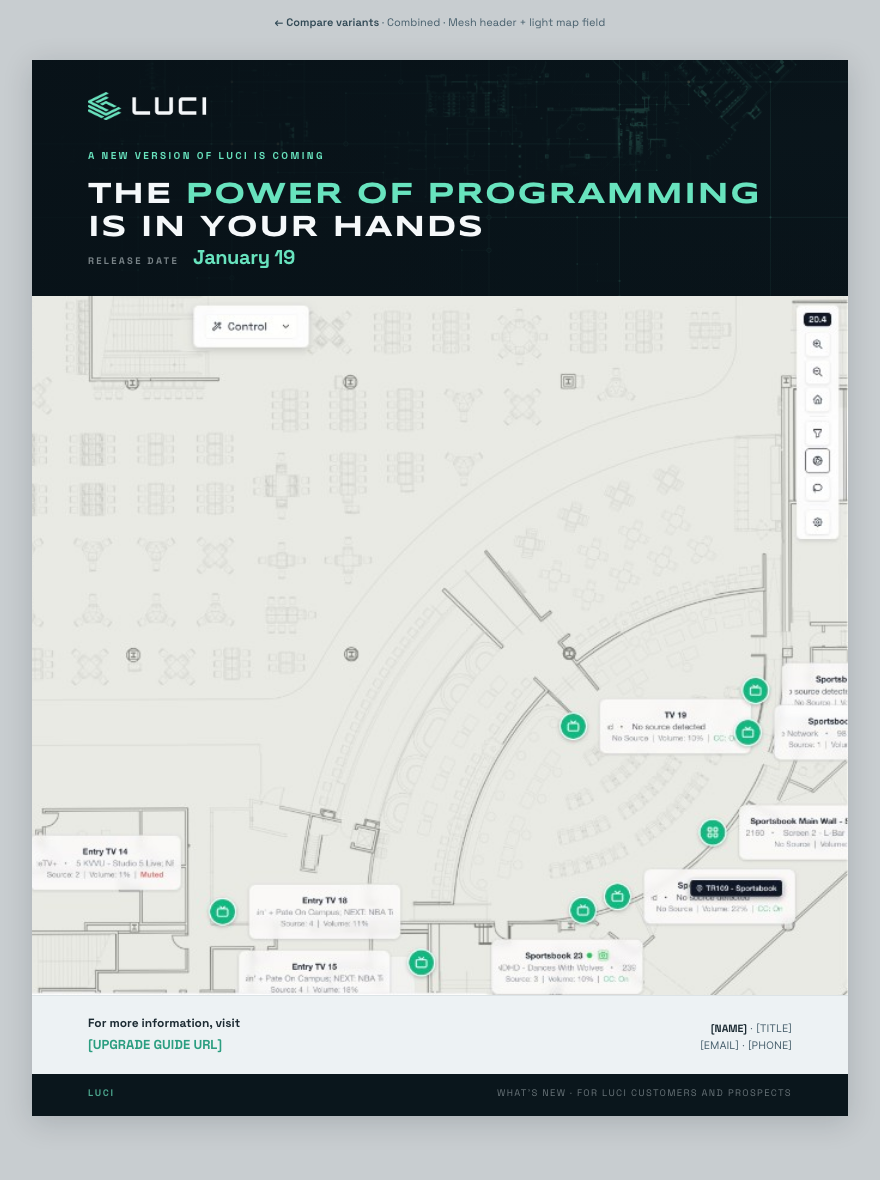
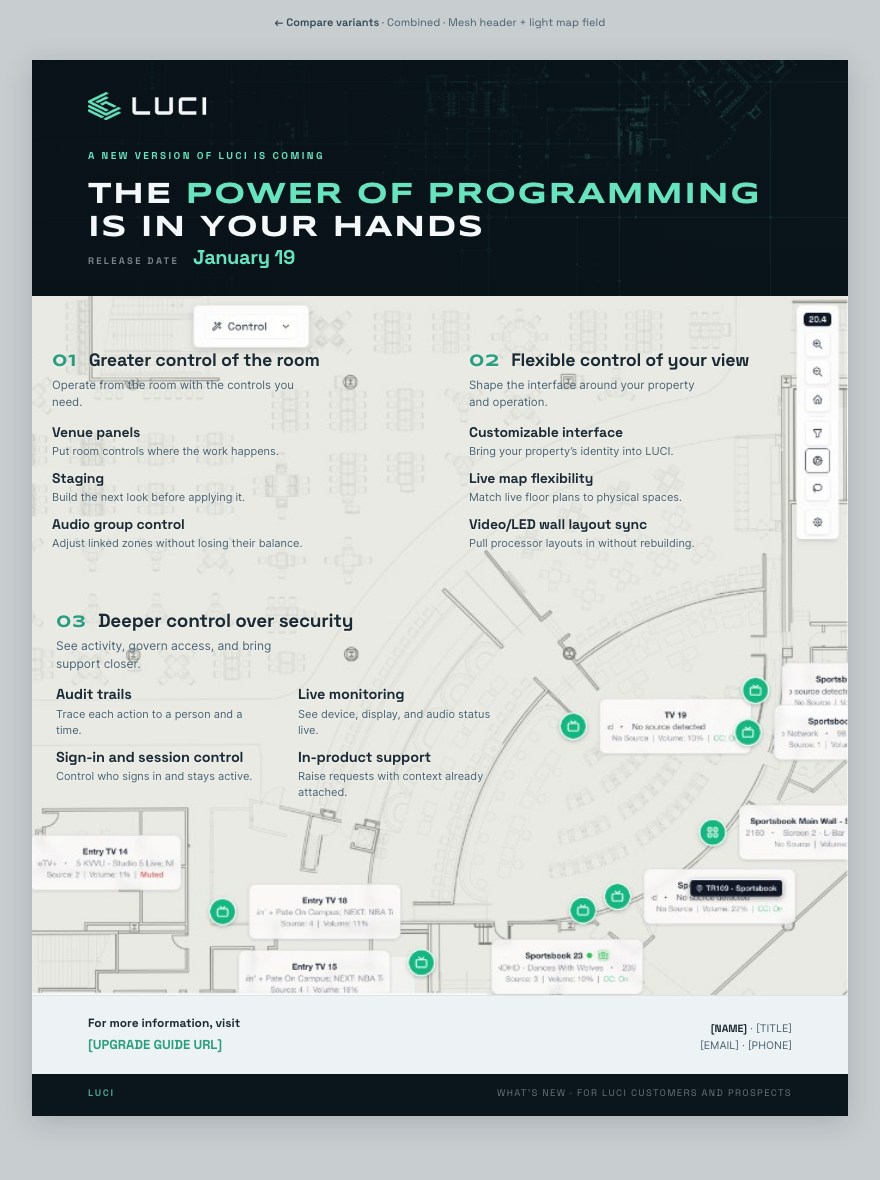
What's New one-pager: layer just the text on the map, no boxes
Re-add the section label + three promise cards as pure text
on the map — no card fill, no hairline, no scrim. Dark ink
type (brochure colors: ink-strong names, mint-dark numerals,
navy-muted body) with a subtle light text-shadow so glyphs
lift off the map detail. Placement kept (01/02 top row,
03 wider below).

diff --git a/LUCI Systems Design System/ui_kits/sales/new-luci-whats-new-onepager-flow-c.html b/LUCI Systems Design System/ui_kits/sales/new-luci-whats-new-onepager-flow-c.html
@@ -79,8 +79,8 @@ body{font-family:var(--font-body);background:#c8cdd0;color:var(--ink);font-size:
 .copy{position:relative;z-index:2;height:100%;display:flex;flex-direction:column;
   padding:18px 32px 34px}
 .copy__title{font-family:var(--font);font-weight:700;font-size:13px;
-  letter-spacing:0.16em;text-transform:uppercase;color:var(--navy-muted);
-  margin-bottom:16px}
+  letter-spacing:0.16em;text-transform:uppercase;color:var(--ink-strong);
+  margin-bottom:16px;text-shadow:0 1px 2px rgba(245,248,250,0.75)}
 
 .promises{display:grid;grid-template-columns:1fr 1fr;gap:18px;align-items:start}
 
@@ -150,6 +150,58 @@ body{font-family:var(--font-body);background:#c8cdd0;color:var(--ink);font-size:
 
     <div class="field">
       <img class="field__shot" src="assets/new-luci-map-light-v5.png?v=1" alt="" aria-hidden="true">
+
+      <div class="copy">
+        <h2 class="copy__title">The 3 Promises of New LUCI</h2>
+
+        <div class="promises">
+          <section class="p">
+            <div class="p__inner">
+              <div class="p__head">
+                <span class="p__num">01</span>
+                <h3 class="p__name">Greater control of the room</h3>
+              </div>
+              <p class="p__lead">Operate from the room with the controls you need.</p>
+              <dl class="features">
+                <div class="ft"><dt>Venue panels</dt><dd>Put room controls where the work happens.</dd></div>
+                <div class="ft"><dt>Staging</dt><dd>Build the next look before applying it.</dd></div>
+                <div class="ft"><dt>Audio group control</dt><dd>Adjust linked zones without losing their balance.</dd></div>
+              </dl>
+            </div>
+          </section>
+
+          <section class="p">
+            <div class="p__inner">
+              <div class="p__head">
+                <span class="p__num">02</span>
+                <h3 class="p__name">Flexible control of your view</h3>
+              </div>
+              <p class="p__lead">Shape the interface around your property and operation.</p>
+              <dl class="features">
+                <div class="ft"><dt>Customizable interface</dt><dd>Bring your property&rsquo;s identity into LUCI.</dd></div>
+                <div class="ft"><dt>Live map flexibility</dt><dd>Match live floor plans to physical spaces.</dd></div>
+                <div class="ft"><dt>Video/LED wall layout sync</dt><dd>Pull processor layouts in without rebuilding.</dd></div>
+              </dl>
+            </div>
+          </section>
+
+          <section class="p">
+            <div class="p__inner">
+              <div class="p__head">
+                <span class="p__num">03</span>
+                <h3 class="p__name">Deeper control over security</h3>
+              </div>
+              <p class="p__lead">See activity, govern access, and bring support closer.</p>
+              <dl class="features">
+                <div class="ft"><dt>Audit trails</dt><dd>Trace each action to a person and a time.</dd></div>
+                <div class="ft"><dt>Live monitoring</dt><dd>See device, display, and audio status live.</dd></div>
+                <div class="ft"><dt>Sign-in and session control</dt><dd>Control who signs in and stays active.</dd></div>
+                <div class="ft"><dt>In-product support</dt><dd>Raise requests with context already attached.</dd></div>
+              </dl>
+            </div>
+          </section>
+        </div>
+      </div>
     </div>
 
     <div class="close">
